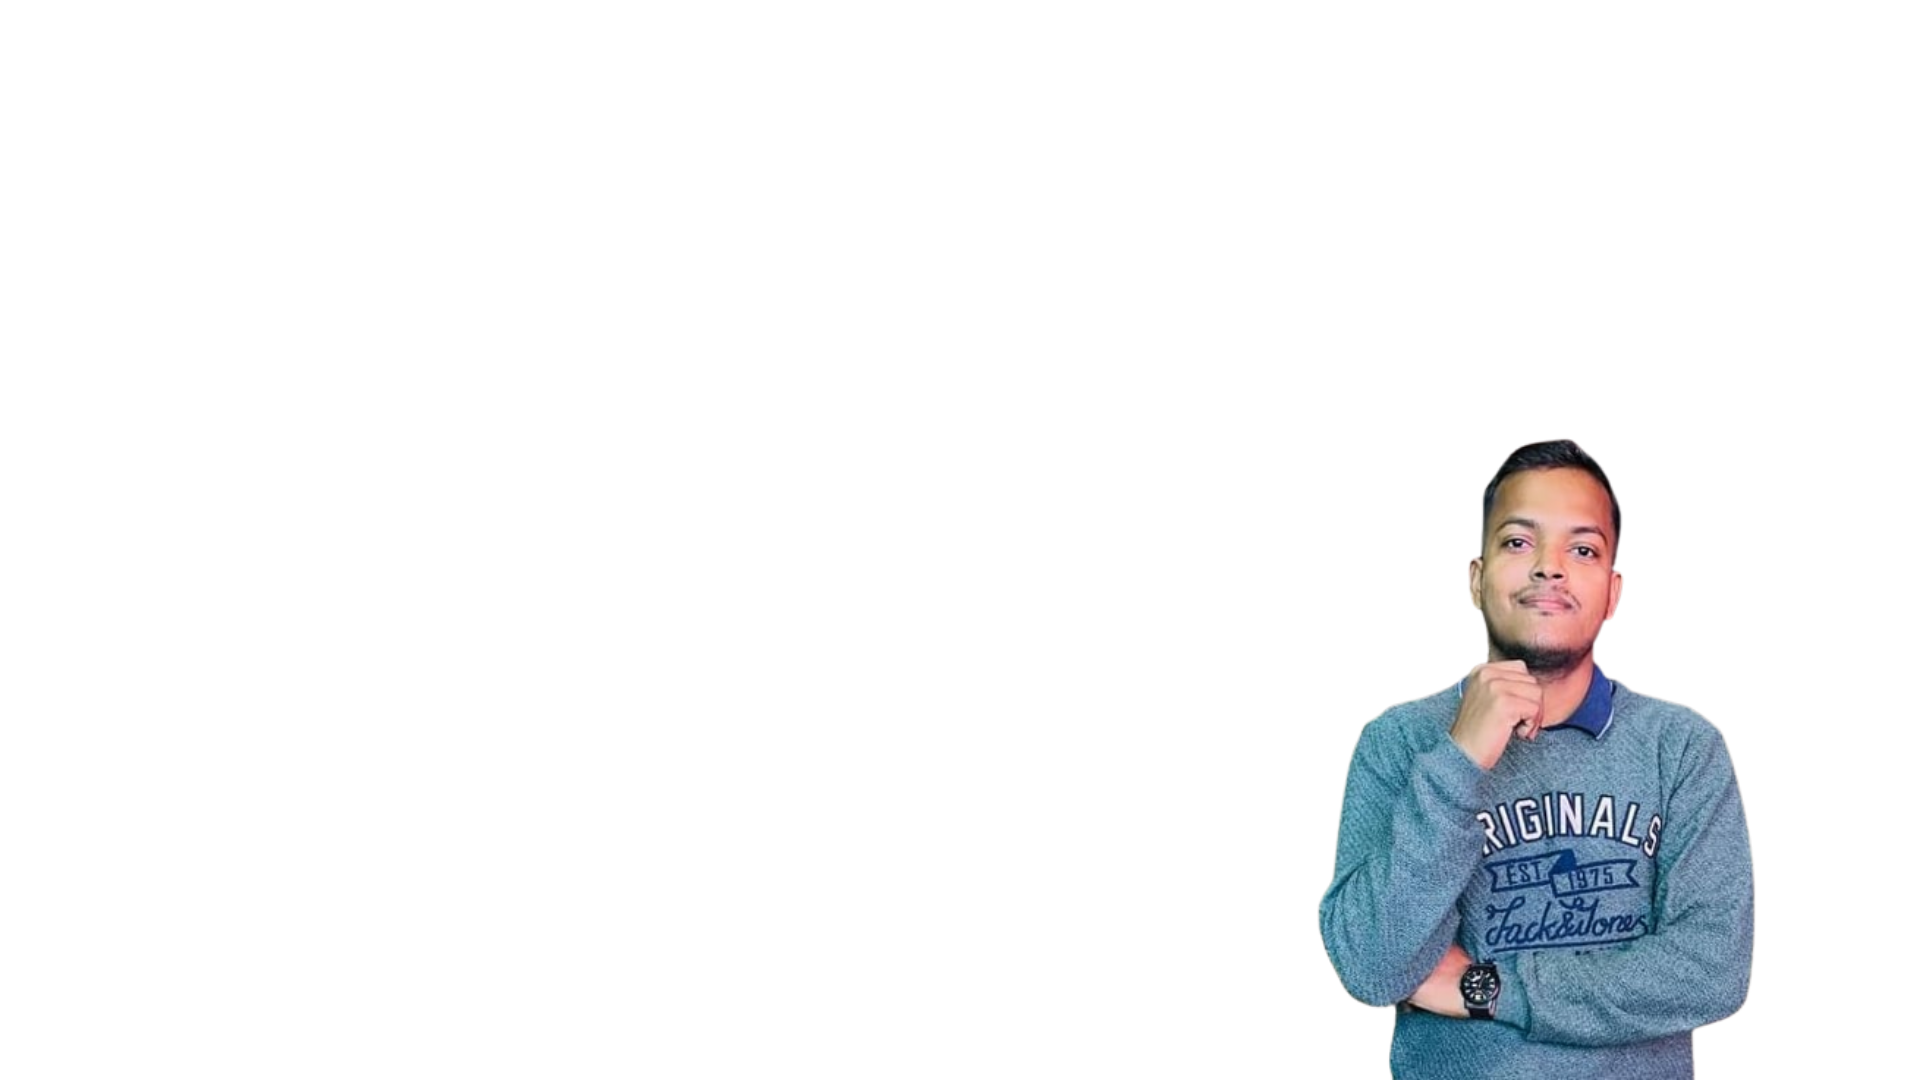
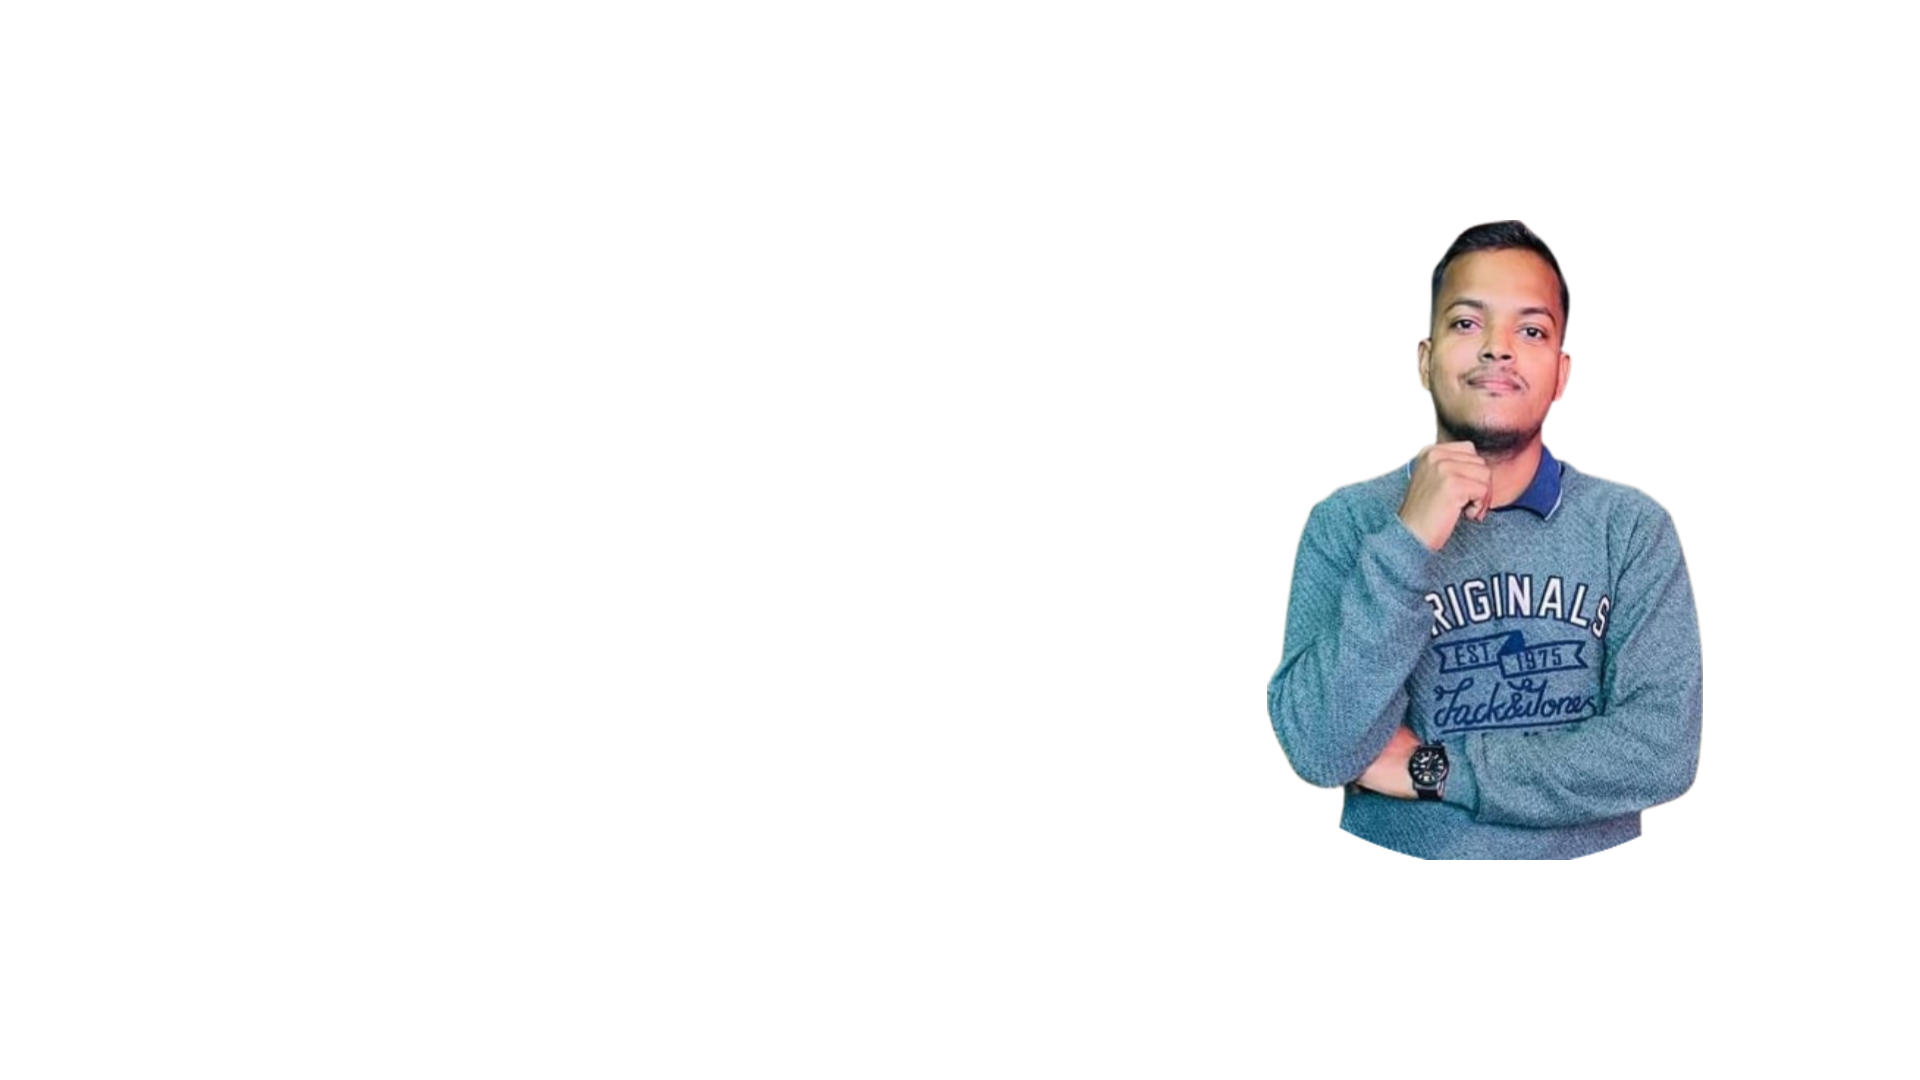
Aboutsectin commit

Changed region(s): [[0.6562, 0.1833, 0.9375, 1.0]]

diff --git a/Portfolio Website/style.css b/Portfolio Website/style.css
@@ -15,3 +15,53 @@ body{
     background-size: cover;
     background-position: center;
 }
+.container{
+    padding: 10px 10%;
+
+}
+nav{
+    display: flex;
+    align-items: center;
+    justify-content: space-between;
+    flex-wrap: wrap;
+}
+.logo{
+    width: 140px;
+
+}
+nav ul li{
+    display: inline-block;
+    list-style: none;
+    margin: 10px 20px;
+}
+nav ul li a{
+    color: #fff;
+    text-decoration: none;
+    font-size: 18px;
+    position: relative;
+}
+nav ul li a::after{
+    content: '';
+    width: 0%;
+    height: 3px;
+    background-color: #ff004f;
+    position: absolute;
+    left: 0;
+    bottom: -6px;
+    transition: 0.5s;
+}
+nav ul li a:hover::after{
+    width: 100%;
+}
+.header-text{
+    margin-top: 20%;
+    font-size: 30px;
+
+}
+.header-text h1{
+    font-size: 60px;
+    margin-top: 20px;
+}
+.header-text h1 span{
+    color: #ff004f;
+}

diff --git a/Portfolio Website/index.html b/Portfolio Website/index.html
@@ -21,6 +21,22 @@
                     <li><a href="#">Contact</a></li>
                 </ul>
             </nav>
+            <div class="header-text">
+                <p>UI/UX Designer</p>
+                <h1>Hi, I'm<span> Ghanshyam</span><br>From INDIA</h1>
+            </div>
+        </div>
+    </div>
+    <div id="about">
+        <div class="container">
+            <div class="row">
+                <div class="about-col-1">
+                    <img src="./images/0img.png" alt="1">
+                </div>
+                <div class="about-col-2">
+                    <h1>About Me</h1>
+                </div>
+            </div>
         </div>
     </div>
     
